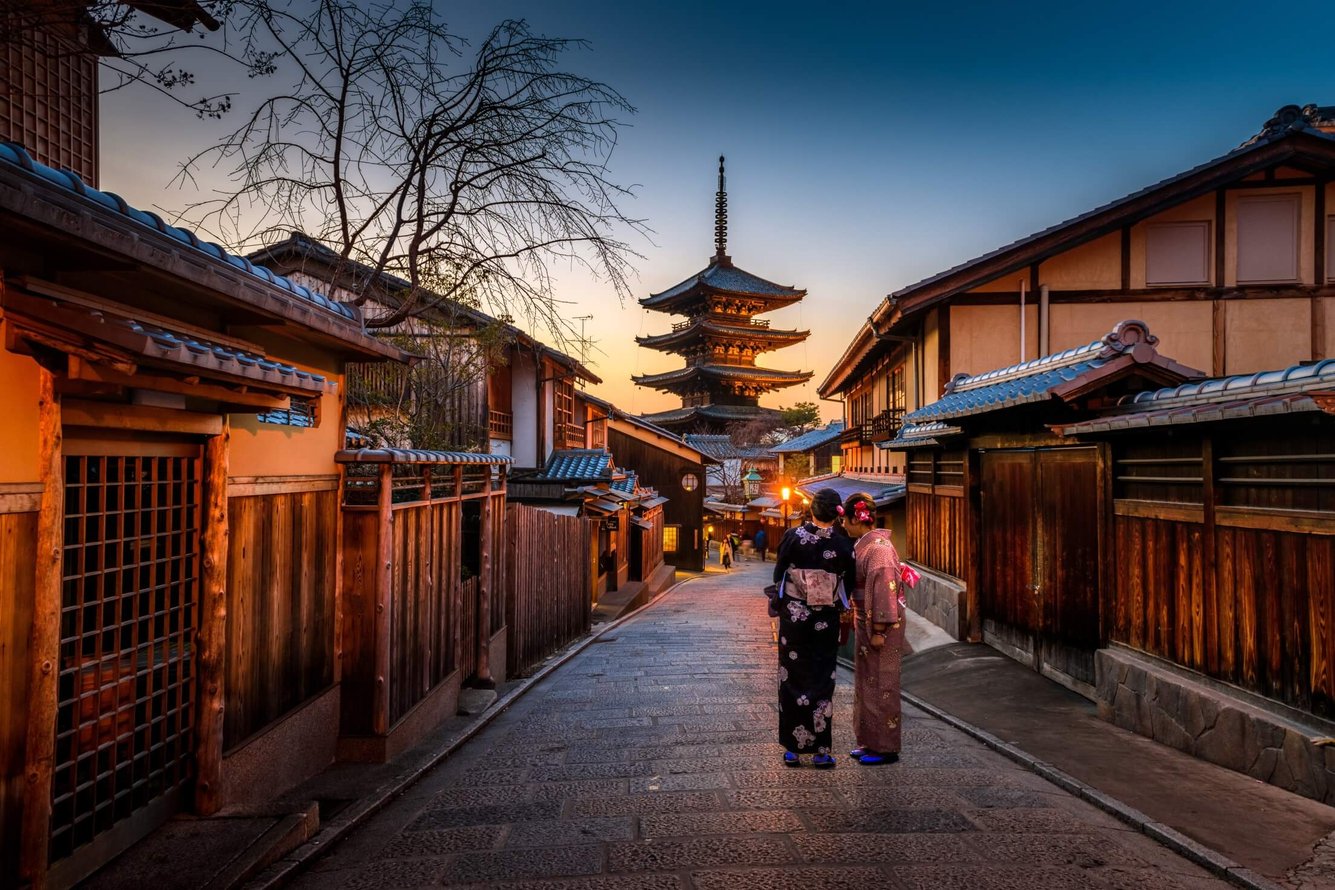
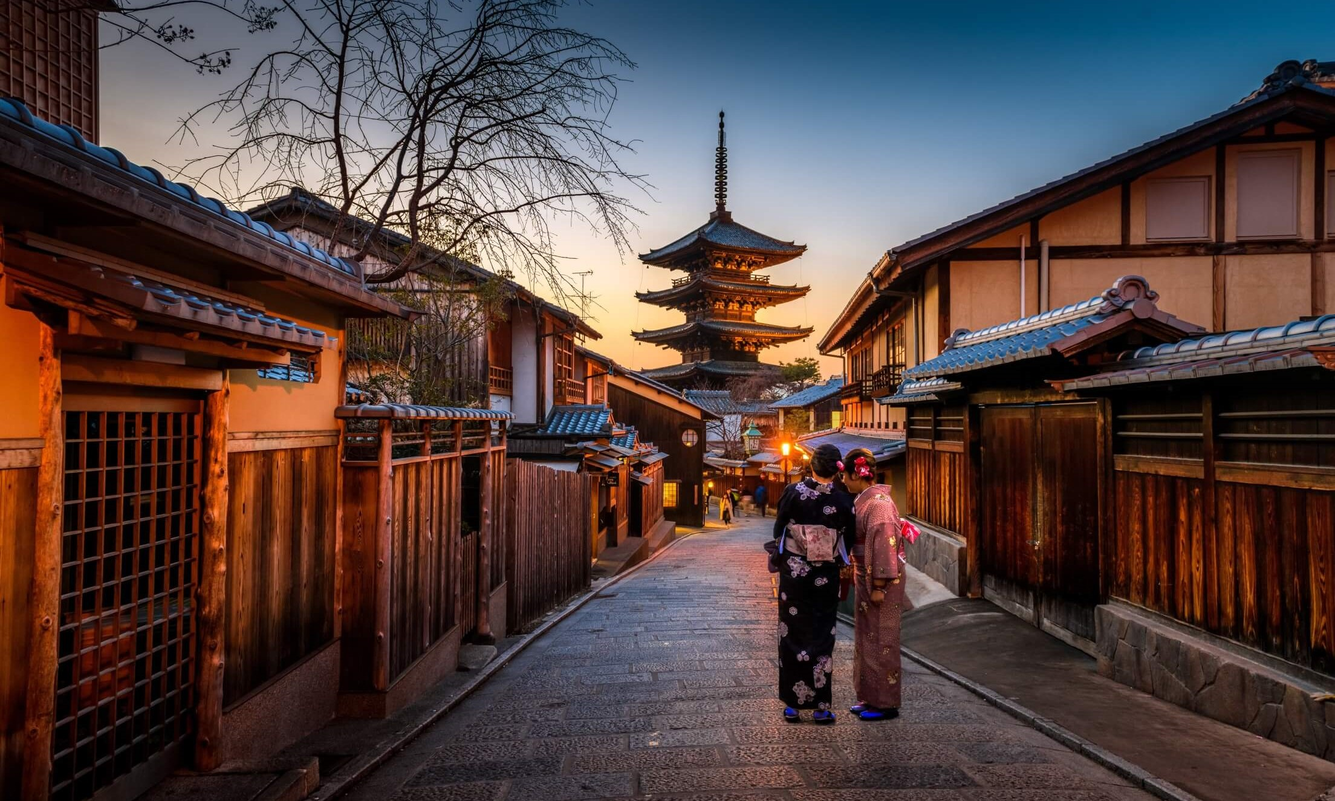
image size

diff --git a/styles/style.scss b/styles/style.scss
@@ -79,7 +79,6 @@ body {
       min-height: 70vh;
       background-image: url("../images/日本櫻花.jpg");
       background-size: cover;
-      background-position: center;
       transition: all 0.75s ease;
       position: relative;
       z-index: 0; // stacking context

diff --git a/styles/style.css b/styles/style.css
@@ -64,7 +64,6 @@ body main section.background-img {
   min-height: 70vh;
   background-image: url("../images/日本櫻花.jpg");
   background-size: cover;
-  background-position: center;
   transition: all 0.75s ease;
   position: relative;
   z-index: 0;
